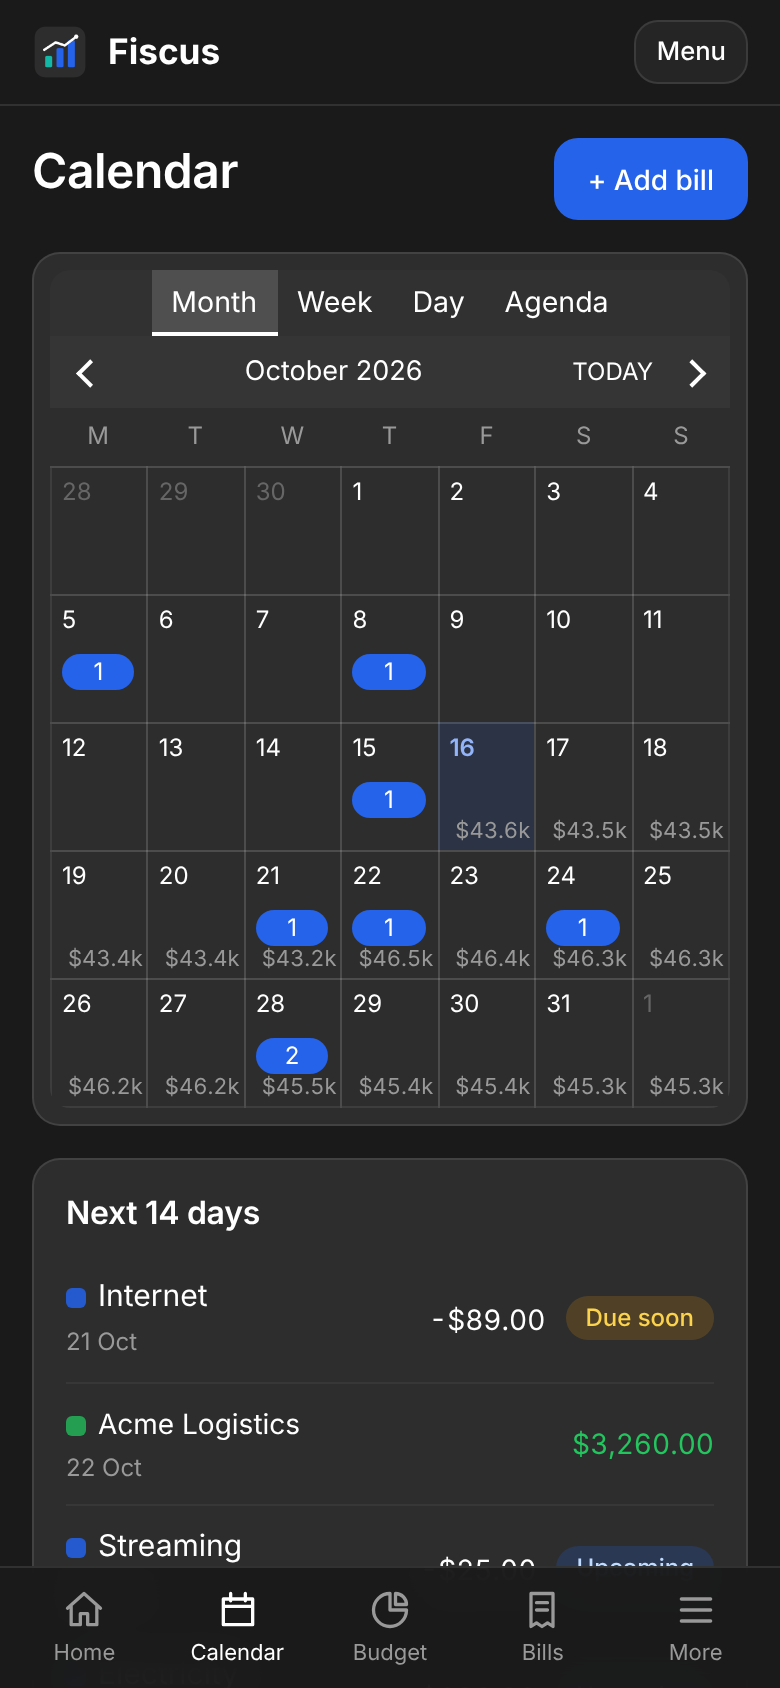
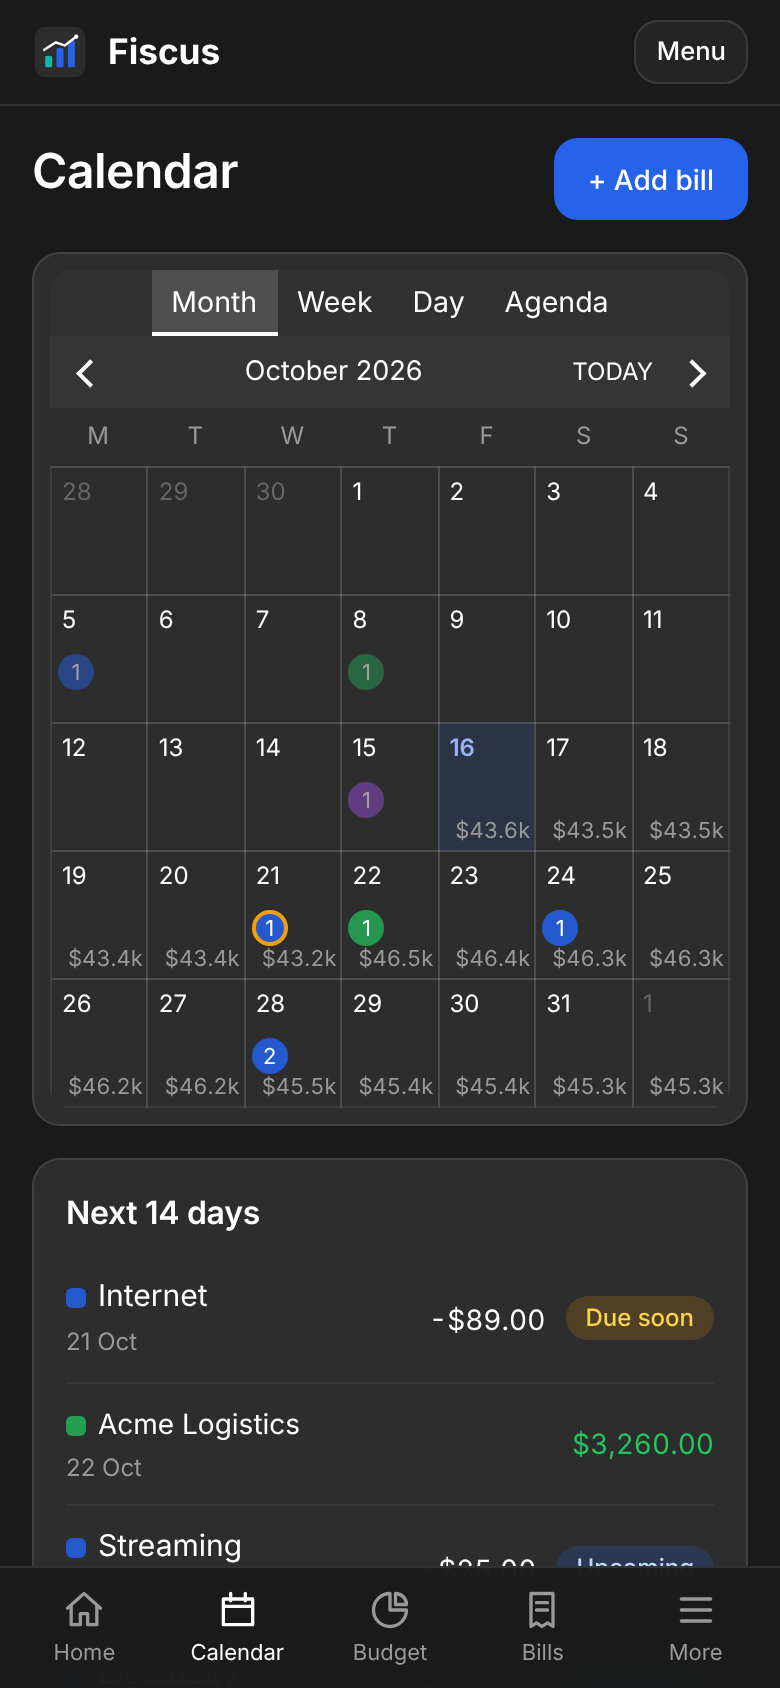
Calendar on a phone: counts in their events' colours
Below 560px the month shows a count instead of the events, and it was one
blue pill whatever the day held. Each day now shows a count per kind and
state, with the events' own classes: pay green, bills blue, loans purple,
overdue red, paid faded, due soon ringed amber. They still open the day.

Claude-Session: https://claude.ai/code/session_01Fdp5BF7RLaG6qmJdb98cWX

diff --git a/fiscus/static/css/calendar.css b/fiscus/static/css/calendar.css
@@ -54,24 +54,23 @@
   .fiscus-cal .cell-balance .narrow { display: inline; }
 }
 .fiscus-cal a.vuecal__cell-content { color: inherit; text-decoration: none; }
-.fiscus-cal .vuecal__cell-events-count { position: static; transform: none; display: inline-block; margin: 2px 6px; background: var(--primary); }
+.fiscus-cal .cell-tags { display: none; flex-wrap: wrap; gap: 2px; padding: 2px 4px; text-decoration: none; }
+/* A count per kind and state, coloured by the ev-* rules above as its events are. */
+.fiscus-cal .cell-tags .vuecal__cell-events-count { position: static; transform: none; display: inline-block; min-width: 18px; height: 18px; line-height: 18px; padding: 0 5px; border-radius: 9px; font-size: 11px; color: #fff; text-align: center; box-shadow: none; }
+/* No room on a pill for the edge an event has: due soon is an amber ring. */
+.fiscus-cal .cell-tags .ev-due_soon { box-shadow: inset 0 0 0 2px var(--warning); }
 
-/* Narrow month: vue-cal's xsmall treatment, events collapse to a count. */
+/* Narrow month: vue-cal's xsmall treatment, events collapse to their counts. */
 @media (max-width: 560px) {
   .fiscus-cal.vuecal--month-view .vuecal__cell { min-height: 64px; }
   .fiscus-cal.vuecal--month-view .vuecal__event { display: none; }
-  .fiscus-cal.vuecal--month-view .vuecal__cell-events-count { display: inline-block; }
+  .fiscus-cal.vuecal--month-view .cell-tags { display: flex; }
   .fiscus-cal .cell-balance { font-size: 11px; left: 2px; right: 2px; }
-  .fiscus-cal.vuecal--month-view .vuecal__cell-events-count { min-width: 22px; height: 18px; line-height: 18px; border-radius: 9px; font-size: 12px; }
-}
-@media (min-width: 561px) {
-  .fiscus-cal.vuecal--month-view .vuecal__cell-events-count { display: none; }
 }
 
 /* Week view (no time grid: Fiscus events are all-day). */
 .fiscus-cal.vuecal--week-view .vuecal__cell { min-height: 280px; display: block; }
 .fiscus-cal.vuecal--week-view .vuecal__event { min-height: 28px; padding: 4px; margin-bottom: 3px; }
-.fiscus-cal.vuecal--week-view .vuecal__cell-events-count { display: none; }
 .fiscus-cal.vuecal--week-view .vuecal__cell-content { padding-bottom: 18px; }
 
 /* Day and agenda: a list. */

diff --git a/fiscus/templates/calendar/_cal.html b/fiscus/templates/calendar/_cal.html
@@ -60,7 +60,12 @@
                 <div class="vuecal__cell-events">
                   {% for e in day.events %}{{ event_button(e) }}{% endfor %}
                 </div>
-                {% if day.events %}<a class="vuecal__cell-events-count" href="{{ url('day', day.date) }}" data-cal-nav>{{ day.events | length }}</a>{% endif %}
+                {% if day.events %}
+                  {# A narrow month shows these instead of the events: a count per kind and state, in their colours. #}
+                  <a class="cell-tags" href="{{ url('day', day.date) }}" data-cal-nav aria-label="{{ day.date | d('long') }}: {{ day.events | map(attribute='title') | join(', ') }}">
+                    {%- for t in day.tags %}<span class="vuecal__cell-events-count {{ t.css }}" title="{{ t.titles | join(', ') }}">{{ t.count }}</span>{% endfor -%}
+                  </a>
+                {% endif %}
               </div>
               {% if day.balance is not none %}<span class="cell-balance {{ 'low' if low else '' }}" title="{{ day.balance | money }}"><span class="wide">{{ day.balance | money_short }}</span><span class="narrow">{{ day.balance | money_short(false) }}</span></span>{% endif %}
             </div>

diff --git a/tests/test_features.py b/tests/test_features.py
@@ -68,6 +68,24 @@ def test_calendar_month_view_matches_carelane_structure(env: Env) -> None:
     assert 'cell-balance' in page
 
 
+def test_a_narrow_month_counts_each_kind_in_its_colour(env: Env) -> None:
+    """A phone's month shows counts, not events: one for each kind and state,
+    with the events' own classes for their colours, not one blue total."""
+    a, *_ = setup_household(env)
+    create_bill(a, name='Water', amount='80', next_due='2026-10-02')
+    create_bill(a, name='Gas', amount='60', next_due='2026-10-02')
+    page = a.get('/calendar?view=month&date=2026-10-01').text
+    cell = page[page.index('data-new-date="2026-10-02"') : page.index('data-new-date="2026-10-03"')]
+    tags = re.findall(
+        r'<span class="vuecal__cell-events-count ([^"]+)" title="([^"]*)">(\d+)</span>', cell
+    )
+    assert tags == [
+        ('ev-pay ev-scheduled', 'Acme wages', '1'),
+        ('ev-bill ev-due_soon', 'Gas, Water', '2'),
+    ]
+    assert re.search(r'class="cell-tags" href="/calendar\?view=day&(amp;)?date=2026-10-02"', cell)
+
+
 def test_calendar_navigates_into_future_months(env: Env) -> None:
     a, *_ = setup_household(env)
     page = a.get('/calendar?view=month&date=2027-03-01').text

diff --git a/fiscus/services/calendar_events.py b/fiscus/services/calendar_events.py
@@ -37,6 +37,19 @@ class Event:
         return f'ev-{self.kind} ev-{self.status}'
 
 
+@dataclass(frozen=True)
+class Tag:
+    """A day's events of one kind and state, as a count: what a month too
+    narrow for the events shows, in their colours."""
+
+    css: str
+    titles: tuple[str, ...]
+
+    @property
+    def count(self) -> int:
+        return len(self.titles)
+
+
 @dataclass
 class Day:
     date: date
@@ -44,6 +57,15 @@ class Day:
     is_today: bool
     events: list[Event] = field(default_factory=list)
     balance: int | None = None
+
+    @property
+    def tags(self) -> list[Tag]:
+        """One count for each kind and state among the events, in their order
+        (pay, bills, loans), so a pay is green and an overdue bill red."""
+        groups: dict[str, list[str]] = {}
+        for e in self.events:
+            groups.setdefault(e.css, []).append(e.title)
+        return [Tag(css, tuple(titles)) for css, titles in groups.items()]
 
 
 @dataclass
